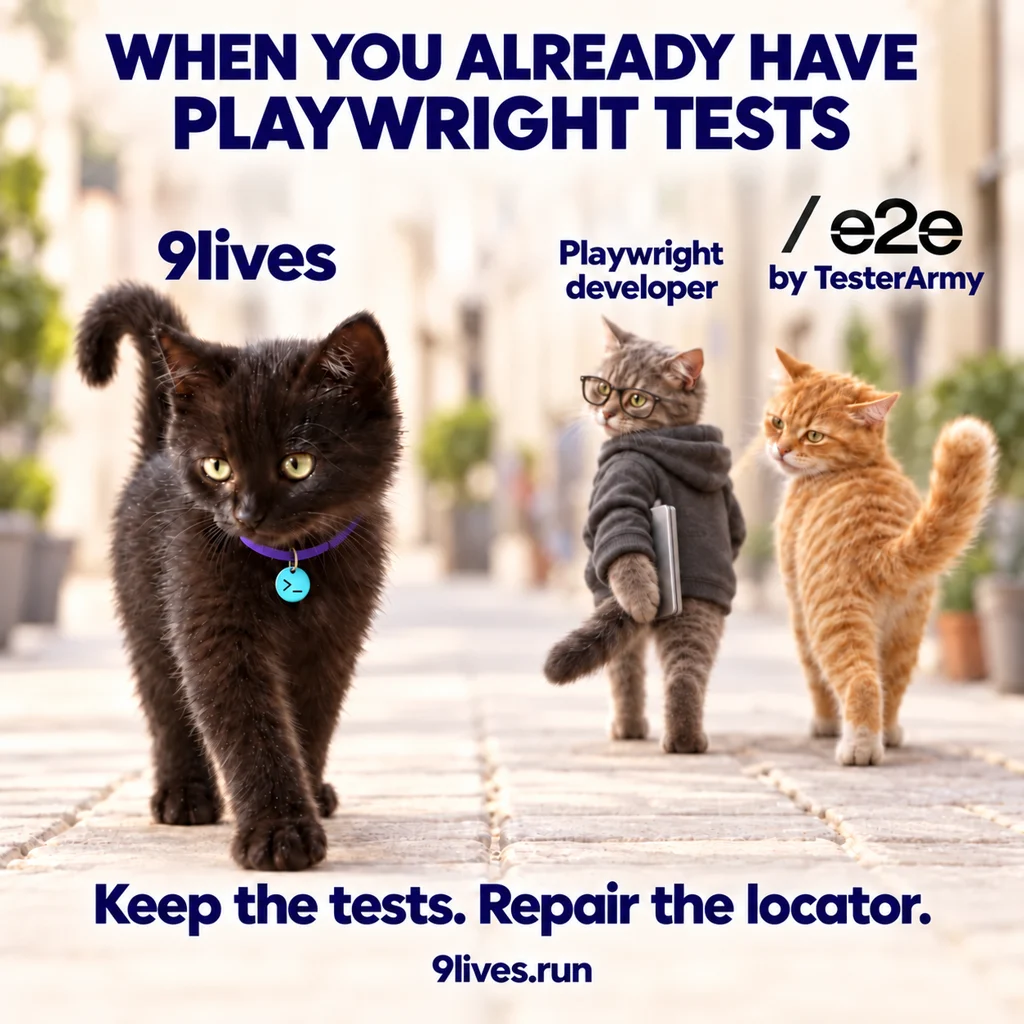
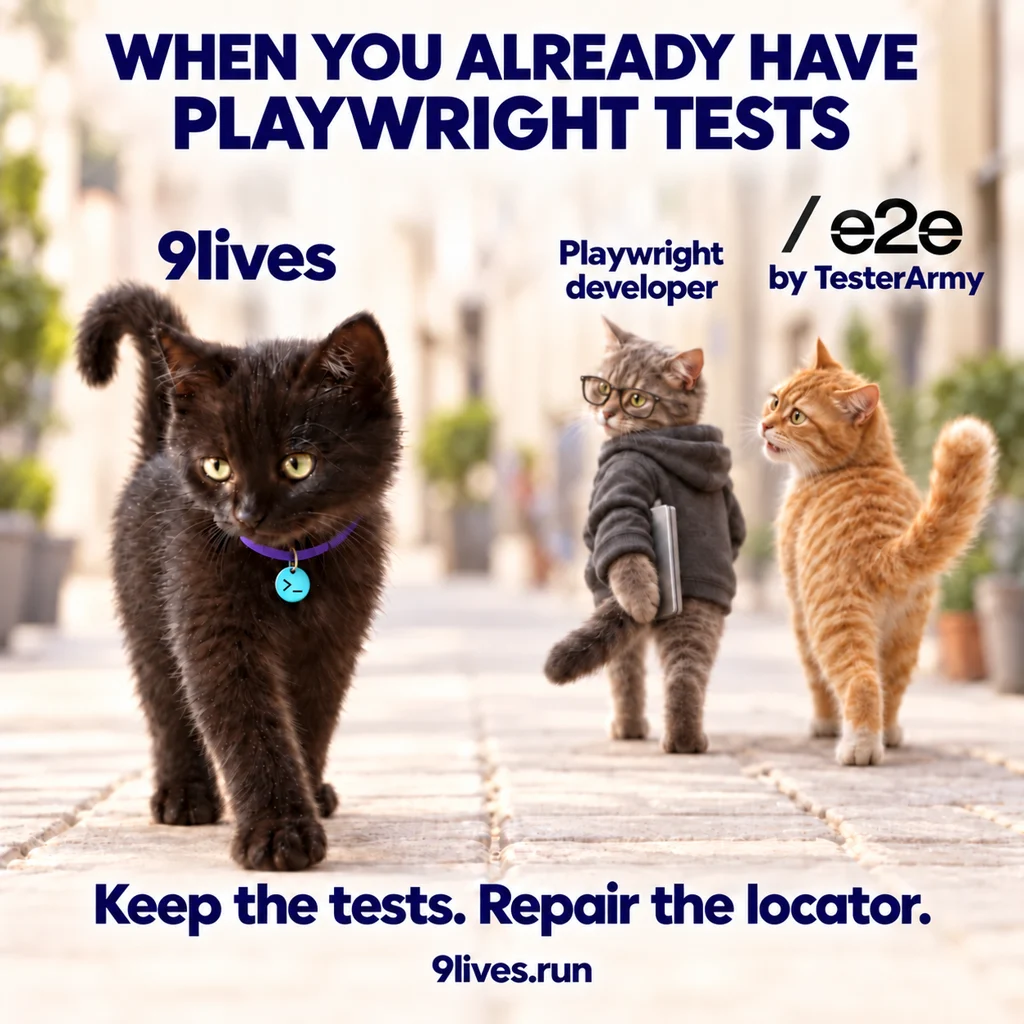
Match companion cat gaze and link interactive Supademo tour

Changed region(s): [[0.7188, 0.3125, 0.875, 0.5]]

diff --git a/website/app/page.tsx b/website/app/page.tsx
@@ -7,12 +7,13 @@ const runCommand = '9l run tests/ --timeout 5m --format json';
 const pythonCommand = 'uv tool install 9lives';
 const runnerSite = 'https://quality-max.github.io/9lives-runner/';
 const migrationGuide = 'https://github.com/Quality-Max/9lives/blob/main/docs/MIGRATING_TO_GO.md';
+const interactiveDemo = 'https://app.supademo.com/demo/cmv43czgb0031wi0jzgno1y8r?utm_source=link';
 
 const memes = [
   {
     file: 'distracted-team-launch-v2',
     title: 'When you already have Playwright tests.',
-    alt: 'Distracted-boyfriend cat parody: the black Qmax kitten labeled 9lives approaches in the left foreground. Farther back on the right, the grey Playwright developer cat in glasses and a hoodie walks away upright on two paws, carrying a silver laptop under his arm and looking back toward 9lives. The ginger e2e by TesterArmy companion looks toward the developer. Keep the tests. Repair the locator.',
+    alt: 'Distracted-boyfriend cat parody: the black Qmax kitten labeled 9lives approaches in the left foreground. Farther back on the right, the grey Playwright developer cat in glasses and a hoodie walks away upright on two paws, carrying a silver laptop under his arm and looking back toward 9lives. The ginger e2e by TesterArmy companion turns toward his face with widened eyes and a slightly open mouth, looking offended and surprised. Keep the tests. Repair the locator.',
     copy: 'e2e by TesterArmy vs 9lives, through the eyes of a team with an existing Playwright suite. Try the runner on a real test and review the repair.',
   },
   {
@@ -173,15 +174,12 @@ export default function Home() {
         <div className="section-heading">
           <p>THE 9LIVES FEATURE LOOP</p>
           <h2 id="feature-tour-heading">Create. Assess. Run. Heal. Challenge.</h2>
-          <span>From an agent draft to verified evidence. Actual QualityMax Demo Bank assessment and offline healing, replayed with its browser capture and results. Additional feature examples are labeled illustrations. One seeded locator case, not a comparative benchmark.</span>
+          <span>Explore the 9lives workflow in an interactive demo, then try the runner on your own Playwright tests. Native healing is experimental; a demo is not a comparative benchmark.</span>
         </div>
-        <details className="workflow-animation" open>
-          <summary>Show or hide the 9lives feature animation</summary>
-          <picture>
-            <source media="(prefers-reduced-motion: reduce)" srcSet="/workflows/workflow-illustration.png" />
-            <Image src="/workflows/workflow-illustration.gif" alt="9lives workflow: a generated QualityMax Demo Bank empty-sign-in test, actual advisory assessment and offline locator verification, followed by illustrations of fault testing, finding confirmation and MCP tools." width={1280} height={720} unoptimized />
-          </picture>
-        </details>
+        <a className="interactive-demo" href={interactiveDemo} target="_blank" rel="noreferrer" aria-label="Open the interactive 9lives demo on Supademo (new tab)">
+          <Image src="/workflows/workflow-illustration.png" alt="9lives workflow illustration" width={1280} height={720} unoptimized />
+          <span className="interactive-demo-cta">Explore the interactive demo <span aria-hidden="true">↗</span></span>
+        </a>
         <div className="feature-grid">
           <article key="Agent-assisted test generation"><h3>Agent-assisted test generation</h3><p>Your coding agent drafts Playwright specs from reviewed requirements. Capture creation provenance before assessing and executing them.</p></article>
           <article key="Test assessment"><h3>Test assessment</h3><p>9l assess flags fixed waits, skips, missing or unawaited assertions, and requirement-mapping gaps. Static findings are advisory.</p></article>

diff --git a/website/app/globals.css b/website/app/globals.css
@@ -173,10 +173,10 @@ footer .legal-note { grid-column: 1 / -1; }
 }
 
 .feature-tour { padding-top: 24px; }
-.workflow-animation { border: 1px solid var(--line); border-radius: 16px; overflow: hidden; margin-bottom: 32px; }
-.workflow-animation summary { padding: 16px; cursor: pointer; color: var(--muted); }
-.workflow-animation summary:focus-visible { outline: 3px solid var(--cyan); outline-offset: -3px; }
-.workflow-animation img { display: block; width: 100%; height: auto; }
+.interactive-demo { display: block; border: 1px solid var(--line); border-radius: 16px; overflow: hidden; margin-bottom: 32px; text-decoration: none; }
+.interactive-demo:focus-visible { outline: 3px solid var(--cyan); outline-offset: 4px; }
+.interactive-demo img { display: block; width: 100%; height: auto; }
+.interactive-demo-cta { display: block; padding: 20px; background: var(--surface); color: var(--cyan); font-weight: 700; text-align: center; }
 .feature-grid { display: grid; grid-template-columns: repeat(3, minmax(0, 1fr)); gap: 24px; }
 .feature-grid h3 { font-size: 20px; margin: 0 0 10px; }
 .feature-grid p { color: var(--muted); line-height: 1.7; margin: 0; }

diff --git a/README.md b/README.md
@@ -10,6 +10,8 @@ Read the [migration guide](docs/MIGRATING_TO_GO.md) for installation, command di
 
 [Explore 9lives.run](https://9lives.run/) · [Read the Playwright field report](https://qualitymax.io/blog/9lives-playwright-field-report)
 
+[**Explore the interactive 9lives demo →**](https://app.supademo.com/demo/cmv43czgb0031wi0jzgno1y8r?utm_source=link)
+
 [Small UI change. Big test drama. Explore the developer memes on 9lives.run →](https://9lives.run/#memes)
 
 **Linux. macOS. Windows. One local workflow.** The [Go runner v0.3.0](https://github.com/Quality-Max/9lives-runner/releases/tag/v0.3.0) has native binaries for all three, on x64 and ARM64. Keep your Playwright project, configuration, and assertions across your team’s machines. Windows users: follow the [ZIP download and checksum guide](https://github.com/Quality-Max/9lives-runner/blob/main/docs/install.md). Project dependencies and Chromium are separate; Windows provider CLI shell integrations remain unqualified.
@@ -45,8 +47,6 @@ Go requires an existing Playwright project with locally installed tooling and br
 The remainder of this README describes the Python package. Hosted QualityMax healing is a separate workflow. Review repair diffs and completed test results before accepting changes.
 
 **Your tests have nine lives.** Self-healing QA for the coding-agent era, by [QualityMax](https://qualitymax.io).
-
-![9lives healing a broken Playwright selector — offline, in seconds](demo/heal.gif)
 
 > Python compatibility demo: a coding agent renamed a button, the test went red, `9lives heal` read the live page, fixed the locator, re-ran it green, and showed the diff — no API key. [**Run the demo yourself →**](demo/)
 
